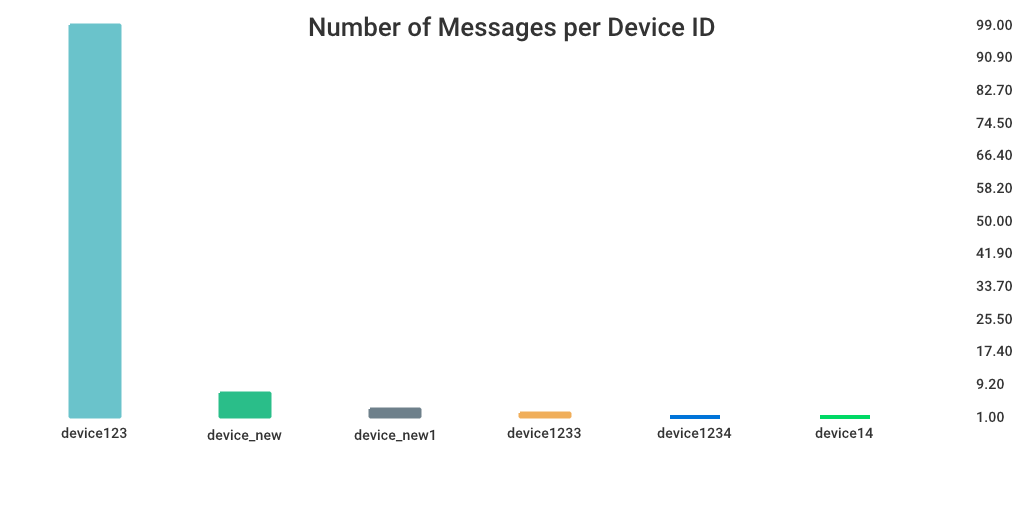
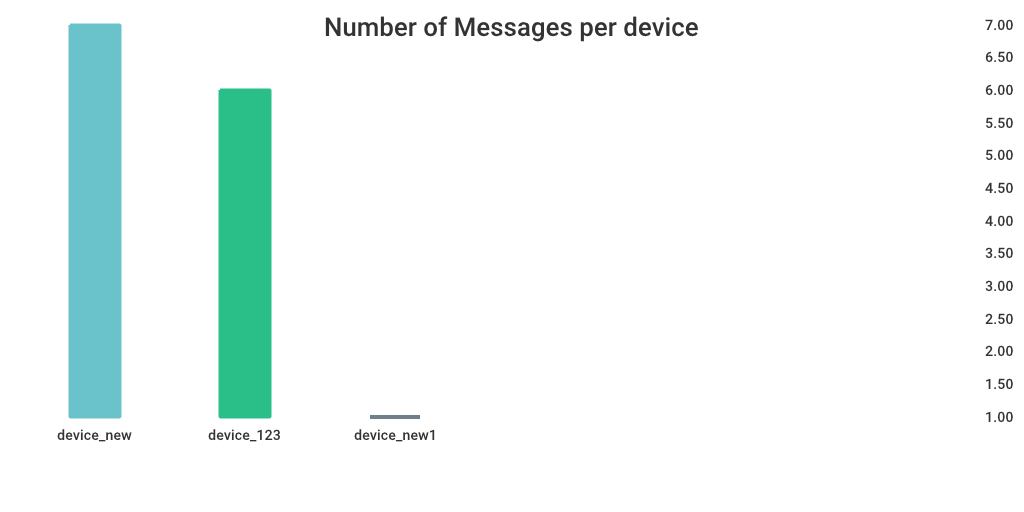
modify readme.md

diff --git a/statistic/statistic.go b/statistic/statistic.go
@@ -34,7 +34,7 @@ func fetchMessageCounts(db *sql.DB) ([]string, []float64) {
 
 func createBarChart(deviceIDs []string, messageCounts []float64) {
 	barChart := chart.BarChart{
-		Title: "Number of Messages per Device ID",
+		Title: "Number of Messages per device ",
 		Height: 512,
 		Width:  1024,
 		Bars:   []chart.Value{},
@@ -47,7 +47,7 @@ func createBarChart(deviceIDs []string, messageCounts []float64) {
 		})
 	}
 
-	f, err := os.Create("statistic/bar_chart.png")
+	f, err := os.Create("bar_chart.png") 
 	if err != nil {
 		log.Fatalf("Failed to create file: %v", err)
 	}

diff --git a/readme.md b/readme.md
@@ -109,7 +109,11 @@ This project implements two mproxy servers which are **TCP Proxy Server** and **
   "message": "Hello, World!"
 }
 ```
-
+## For statistic about the number of messages each device sent, run statistic.go
+   ```bash
+   go run statistic.go
+   ```
+   
 ## Testing
 
 ### 1. For TCP:
